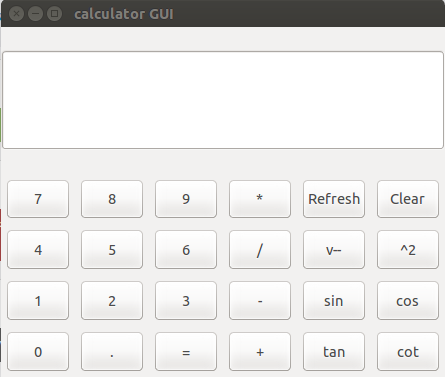
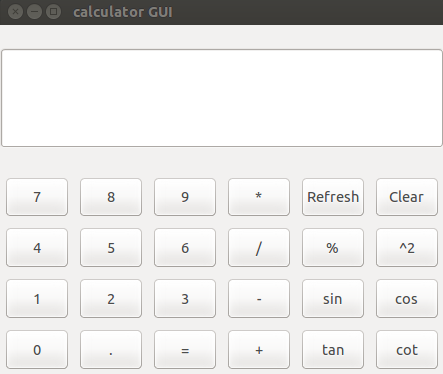
add percent

diff --git a/gui.php b/gui.php
@@ -70,18 +70,31 @@ class cgui extends GtkWindow {
 		$btn0->set_label('0');
 		$btn0->connect('clicked',array($this,'click0'));
 		$btndot->set_label('.');
+		$btndot->connect('clicked',array($this,'clickdot'));
 		$btnpercent->set_label('%');
+		$btnpercent->connect('clicked',array($this,'clickpercent'));
 		$btnplus->set_label('+');
+		$btnplus->connect('clicked',array($this,'clickplus'));
 		$btnminus->set_label('-');
+		$btnminus->connect('clicked',array($this,'clickminus'));
 		$btndiv->set_label('/');
+		$btndiv->connect('clicked',array($this,'clickdiv'));
 		$btnmulti->set_label('*');
+		$btnmulti->connect('clicked',array($this,'clickmulti'));
 		$btnequal->set_label('=');
+		$btnequal->connect('clicked',array($this,'clickequal'));
 		$btnt2->set_label('^2');
-		$btnrad->set_label('v--');
+		//$btnt2->connect('clicked',array($this,'clickt2'));
+		//$btnrad->set_label('v--');
+		$btnrad->connect('clicked',array($this,'clickrad'));
 		$btnsin->set_label('sin');
+		$btnsin->connect('clicked',array($this,'clicksin'));
 		$btncos->set_label('cos');
+		$btncos->connect('clicked',array($this,'clickcos'));
 		$btntan->set_label('tan');
+		$btntan->connect('clicked',array($this,'clicktan'));
 		$btncot->set_label('cot');
+		$btncot->connect('clicked',array($this,'clickcot'));
 
 		//create table
 		$tbl = new GtkTable(4,6,true);
@@ -96,7 +109,7 @@ class cgui extends GtkWindow {
 		$tbl->attach($btn5,1,2,1,2);
 		$tbl->attach($btn6,2,3,1,2);
 		$tbl->attach($btndiv,3,4,1,2);
-		$tbl->attach($btnrad,4,5,1,2);
+		$tbl->attach($btnpercent,4,5,1,2);
 		$tbl->attach($btnt2,5,6,1,2);
 		$tbl->attach($btn1,0,1,2,3);
 		$tbl->attach($btn2,1,2,2,3);
